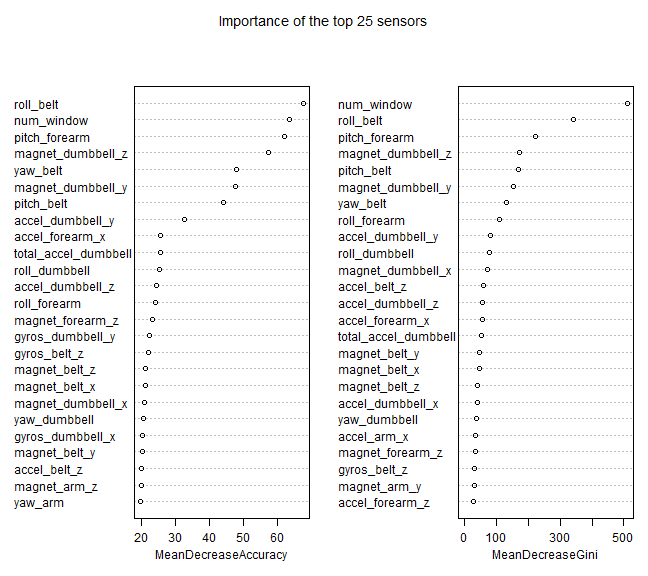
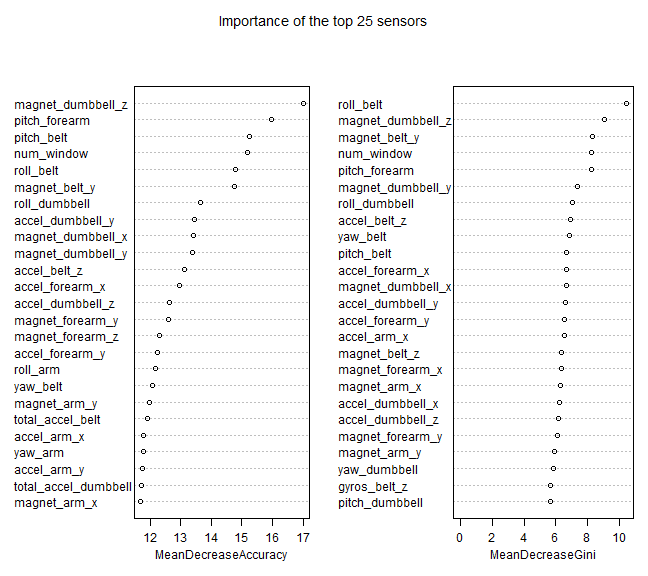
ms

diff --git a/predmachlearn.html b/predmachlearn.html
@@ -202,7 +202,7 @@ testing &lt;- read.csv(&quot;pml-testing.csv&quot;)
 
 # Separate test data into two groups
 training &lt;- training[, -c(1, 3:5)]  #First column is redundant, remove noisy time data
-inTrain &lt;- createDataPartition(y = training$classe, p = 0.2, list = FALSE)
+inTrain &lt;- createDataPartition(y = training$classe, p = 0.02, list = FALSE)
 train1 &lt;- training[inTrain, ]
 test1 &lt;- training[-inTrain, ]
 </code></pre>
@@ -236,12 +236,12 @@ train1 &lt;- train1[, -which(names(train1) %in% nzv1)]
 <pre><code class="r">modFit$finalModel$confusion
 </code></pre>
 
-<pre><code>##      A   B   C   D   E class.error
-## A 1115   1   0   0   0   0.0008961
-## B   11 739   9   1   0   0.0276316
-## C    0  11 672   1   1   0.0189781
-## D    0   1  10 632   1   0.0186335
-## E    0   1   2   7 712   0.0138504
+<pre><code>##     A  B  C  D  E class.error
+## A 104  3  3  2  0     0.07143
+## B  10 57  7  1  1     0.25000
+## C   2  2 60  4  1     0.13043
+## D   3  1  6 53  2     0.18462
+## E   0  7  5  3 58     0.20548
 </code></pre>
 
 <h2>Cross Validation</h2>
@@ -255,33 +255,33 @@ train1 &lt;- train1[, -which(names(train1) %in% nzv1)]
 ## 
 ##           Reference
 ## Prediction    A    B    C    D    E
-##          A 4462   55    4    0    0
-##          B    1 2944   31    1   10
-##          C    0   37 2699   22    5
-##          D    0    1    3 2549   28
-##          E    1    0    0    0 2842
+##          A 5084  355   89   83   43
+##          B  200 2839  323   93  315
+##          C   42  393 2865  469  178
+##          D  129  123   64 2349  136
+##          E   13   11   12  157 2862
 ## 
 ## Overall Statistics
 ##                                         
-##                Accuracy : 0.987         
-##                  95% CI : (0.985, 0.989)
+##                Accuracy : 0.832         
+##                  95% CI : (0.827, 0.837)
 ##     No Information Rate : 0.284         
 ##     P-Value [Acc &gt; NIR] : &lt;2e-16        
 ##                                         
-##                   Kappa : 0.984         
-##  Mcnemar&#39;s Test P-Value : NA            
+##                   Kappa : 0.787         
+##  Mcnemar&#39;s Test P-Value : &lt;2e-16        
 ## 
 ## Statistics by Class:
 ## 
 ##                      Class: A Class: B Class: C Class: D Class: E
-## Sensitivity             1.000    0.969    0.986    0.991    0.985
-## Specificity             0.995    0.997    0.995    0.998    1.000
-## Pos Pred Value          0.987    0.986    0.977    0.988    1.000
-## Neg Pred Value          1.000    0.993    0.997    0.998    0.997
+## Sensitivity             0.930    0.763    0.854    0.745    0.810
+## Specificity             0.959    0.940    0.932    0.972    0.988
+## Pos Pred Value          0.899    0.753    0.726    0.839    0.937
+## Neg Pred Value          0.972    0.943    0.968    0.951    0.958
 ## Prevalence              0.284    0.194    0.174    0.164    0.184
-## Detection Rate          0.284    0.188    0.172    0.162    0.181
-## Detection Prevalence    0.288    0.190    0.176    0.164    0.181
-## Balanced Accuracy       0.997    0.983    0.991    0.994    0.993
+## Detection Rate          0.264    0.148    0.149    0.122    0.149
+## Detection Prevalence    0.294    0.196    0.205    0.146    0.159
+## Balanced Accuracy       0.944    0.851    0.893    0.859    0.899
 </code></pre>
 
 <h2>Prediction of the original test dataset</h2>
@@ -292,7 +292,7 @@ train1 &lt;- train1[, -which(names(train1) %in% nzv1)]
 answers
 </code></pre>
 
-<pre><code>##  [1] B A A A A E D B A A B C B A E E A B B B
+<pre><code>##  [1] A A B A A E D B A A C C B A E B A B A B
 ## Levels: A B C D E
 </code></pre>
 
@@ -306,7 +306,7 @@ answers
 varImpPlot(rf, n.var = nrow(rf$importance[1:25, ]), main = &quot;Importance of the top 25 sensors&quot;)
 </code></pre>
 
[2 lines of base64/hex data omitted]
 
 </body>
 

diff --git a/predmachlearn.md b/predmachlearn.md
@@ -22,7 +22,7 @@ testing <- read.csv("pml-testing.csv")
 
 # Separate test data into two groups
 training <- training[, -c(1, 3:5)]  #First column is redundant, remove noisy time data
-inTrain <- createDataPartition(y = training$classe, p = 0.2, list = FALSE)
+inTrain <- createDataPartition(y = training$classe, p = 0.02, list = FALSE)
 train1 <- training[inTrain, ]
 test1 <- training[-inTrain, ]
 ```
@@ -61,12 +61,12 @@ modFit$finalModel$confusion
 ```
 
 ```
-##      A   B   C   D   E class.error
-## A 1115   1   0   0   0   0.0008961
-## B   11 739   9   1   0   0.0276316
-## C    0  11 672   1   1   0.0189781
-## D    0   1  10 632   1   0.0186335
-## E    0   1   2   7 712   0.0138504
+##     A  B  C  D  E class.error
+## A 104  3  3  2  0     0.07143
+## B  10 57  7  1  1     0.25000
+## C   2  2 60  4  1     0.13043
+## D   3  1  6 53  2     0.18462
+## E   0  7  5  3 58     0.20548
 ```
 
 
@@ -82,33 +82,33 @@ confusionMatrix(predict(modFit, newdata = test1), test1$classe)
 ## 
 ##           Reference
 ## Prediction    A    B    C    D    E
-##          A 4462   55    4    0    0
-##          B    1 2944   31    1   10
-##          C    0   37 2699   22    5
-##          D    0    1    3 2549   28
-##          E    1    0    0    0 2842
+##          A 5084  355   89   83   43
+##          B  200 2839  323   93  315
+##          C   42  393 2865  469  178
+##          D  129  123   64 2349  136
+##          E   13   11   12  157 2862
 ## 
 ## Overall Statistics
 ##                                         
-##                Accuracy : 0.987         
-##                  95% CI : (0.985, 0.989)
+##                Accuracy : 0.832         
+##                  95% CI : (0.827, 0.837)
 ##     No Information Rate : 0.284         
 ##     P-Value [Acc > NIR] : <2e-16        
 ##                                         
-##                   Kappa : 0.984         
-##  Mcnemar's Test P-Value : NA            
+##                   Kappa : 0.787         
+##  Mcnemar's Test P-Value : <2e-16        
 ## 
 ## Statistics by Class:
 ## 
 ##                      Class: A Class: B Class: C Class: D Class: E
-## Sensitivity             1.000    0.969    0.986    0.991    0.985
-## Specificity             0.995    0.997    0.995    0.998    1.000
-## Pos Pred Value          0.987    0.986    0.977    0.988    1.000
-## Neg Pred Value          1.000    0.993    0.997    0.998    0.997
+## Sensitivity             0.930    0.763    0.854    0.745    0.810
+## Specificity             0.959    0.940    0.932    0.972    0.988
+## Pos Pred Value          0.899    0.753    0.726    0.839    0.937
+## Neg Pred Value          0.972    0.943    0.968    0.951    0.958
 ## Prevalence              0.284    0.194    0.174    0.164    0.184
-## Detection Rate          0.284    0.188    0.172    0.162    0.181
-## Detection Prevalence    0.288    0.190    0.176    0.164    0.181
-## Balanced Accuracy       0.997    0.983    0.991    0.994    0.993
+## Detection Rate          0.264    0.148    0.149    0.122    0.149
+## Detection Prevalence    0.294    0.196    0.205    0.146    0.159
+## Balanced Accuracy       0.944    0.851    0.893    0.859    0.899
 ```
 
 
@@ -121,7 +121,7 @@ answers
 ```
 
 ```
-##  [1] B A A A A E D B A A B C B A E E A B B B
+##  [1] A A B A A E D B A A C C B A E B A B A B
 ## Levels: A B C D E
 ```
 
